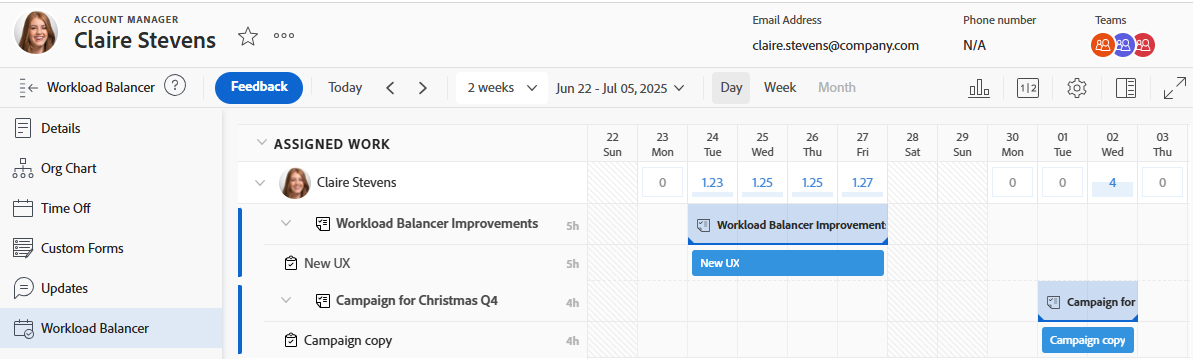
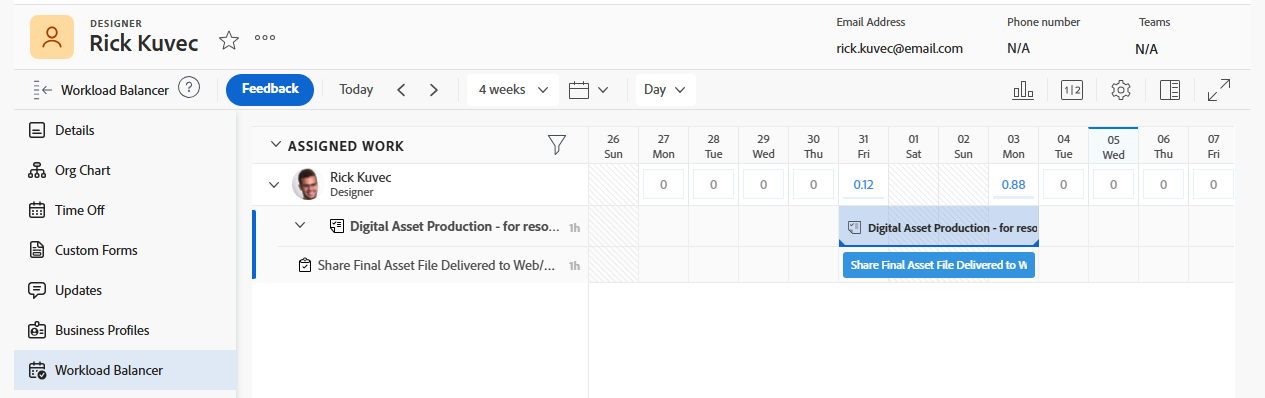
images updates

diff --git a/help/quicksilver/administration-and-setup/customize-workfront/use-layout-templates/customize-fvg-list-controls-layout-template.md b/help/quicksilver/administration-and-setup/customize-workfront/use-layout-templates/customize-fvg-list-controls-layout-template.md
@@ -28,6 +28,8 @@ topic_v2:
 ---
 # Customize Filters, Views, and Groupings using a layout template
 
+{{preview-fast-release-general}}
+
 As an Adobe Workfront administrator, you can use a layout template to specify which list controls appear in the Filter, View, and Grouping drop-down menus. These menus appear above lists throughout Workfront, such as the list of tasks for a project:
 
 ![Filter view grouping layout templates](assets/filter-view-grouping-layout-templates.png)
@@ -95,7 +97,7 @@ For information, see [Access requirements in Workfront documentation](/help/quic
    >   
    >  ![Disable filters button](assets/disable-filter-pills.png)
 
-   Some enhanced lists are available to choose from. These lists have a "New Experience" label next to the list controls. For information on enhanced lists, see [Use enhanced lists](/help/quicksilver/workfront-basics/navigate-workfront/use-lists/enhanced-lists.md).
+   <span class="preview">Some enhanced lists are available to choose from. These lists have a "New Experience" label next to the list controls. For information on enhanced lists, see [Use enhanced lists](/help/quicksilver/workfront-basics/navigate-workfront/use-lists/enhanced-lists.md).</span>
 
 1. (Optional) If you want to change the default filter, view, or grouping for the layout template, hover over the filter, view, or grouping, then click **Set as default**.
 

diff --git a/help/quicksilver/resource-mgmt/workload-balancer/navigate-the-workload-balancer.md b/help/quicksilver/resource-mgmt/workload-balancer/navigate-the-workload-balancer.md
@@ -433,7 +433,7 @@ Navigating the Workload Balancer of a team is similar to how you navigate the Wo
 
 1. Click **Workload Balancer** in the left panel.
 
-    ![Workload Balancer of a team](assets/nwe-balancer-team-350x172.png)
+    ![Workload Balancer of a team](assets/wb-on-team.png)
 
     The Workload Balancer of a team displays the following information, by default:
 
@@ -449,9 +449,9 @@ Navigating the Workload Balancer of a team is similar to how you navigate the Wo
 1. Click the name of a project to open the project page.
 1. Click **Workload Balancer** in the left panel.
 
-    ![Workload Balancer of a project](assets/nwe-balancer-project-350x152.png)
+    ![Workload Balancer of a project](assets/wb-on-project.png)
 
-    The Workload Balancer for the project displays the following information, by default: 
+    The Workload Balancer for the project displays the following information, by default:
     
     * In the **Unassigned Work** area: Work items on the project that are assigned to roles or teams and are not assigned to users. Role assignments are displayed under work items in the Unassigned Work area when the Show Role Assignments setting is enabled.
     * In the **Assigned Work** area: Work items on the project that are assigned to at least one user.

diff --git a/help/quicksilver/timesheets/create-and-manage-timesheets/log-time.md b/help/quicksilver/timesheets/create-and-manage-timesheets/log-time.md
@@ -124,8 +124,7 @@ To log time on a timesheet:
 {{step1-click-main-menu}}
 
 1. Click [!UICONTROL **Timesheets**]. Your current timesheet displays by default. 
-   ![Timesheet](assets/timesheet-redesigned-nwe.png)
-
+   ![Timesheet](assets/timesheet-layout-leftnav-updated.png)
 
 1. (Optional) Click the **full-screen** icon ![](assets/full-screen.png) to display the timesheet in full-screen mode, then click the **exit-full-screen** ![](assets/exit-full-screen.png) icon to return to the timesheet. 
 
@@ -287,7 +286,7 @@ To log time on a timesheet:
 
 1. (Optional) Click [!UICONTROL **Updates**] in the left panel, then add an update to the timesheet. For more information about Workfront updates, see [Update work](../../workfront-basics/updating-work-items-and-viewing-updates/update-work.md).
 
-   ![enter-an-update-in-redesigned-timesheet-left-panel](assets/enter-an-update-in-redesigned-timesheet-left-panel.png)
+   ![enter-an-update-in-redesigned-timesheet-left-panel](assets/timesheet-updates-with-all-tab.png)
 
 1. (Optional) Return to the **Timesheet** area to close or submit your timesheet.
 

diff --git a/help/quicksilver/timesheets/timesheets/timesheet-layout.md b/help/quicksilver/timesheets/timesheets/timesheet-layout.md
@@ -44,7 +44,7 @@ Timesheet and hour preferences control what appears on a timesheet. This article
 
 For information about how to log time on a time sheet, see [Log time](../../timesheets/create-and-manage-timesheets/log-time.md).
 
-![Timesheet layout](assets/timesheet-layout-unshimmed.png)
+![Timesheet layout](assets/timesheet-layout-leftnav-updated.png)
 
 The following are the areas of a timesheet:
 
